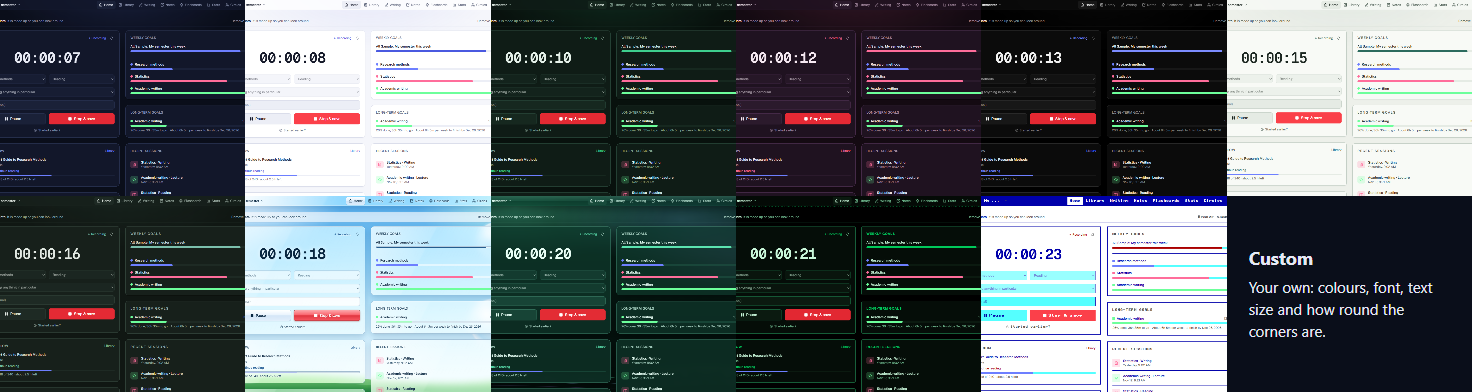
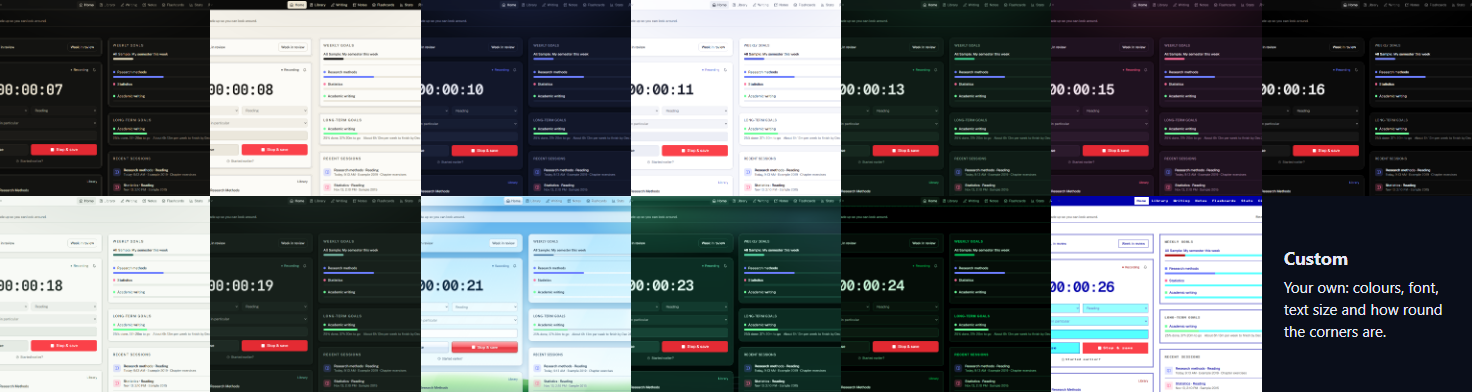
Update the site

diff --git a/docs/manual.html b/docs/manual.html
@@ -23,7 +23,7 @@
   </header>
 
   <h1>The full user manual</h1>
-  <p class="lead">Everything Voynich does, part by part. New here? Start with <a href="guide.html">Getting started in ten minutes</a>. This manual describes version 0.90.0; later versions may add things, and Settings, About and updates lists what changed.</p>
+  <p class="lead">Everything Voynich does, part by part. New here? Start with <a href="guide.html">Getting started in ten minutes</a>. This manual describes version 0.91.0; later versions may add things, and Settings, About and updates lists what changed.</p>
 
   <div class="layout">
     <nav class="toc" aria-label="Contents">
@@ -106,6 +106,7 @@
         <p>After that it opens like any app, and updates from inside Voynich do not ask again. On a Mac, Voynich is in the Dock while its window is open, and its icon (an outline with a v) is in the menu bar at the top right; <strong>click</strong> it to open Voynich, <strong>Control-click</strong> it for its menu. Your data is in <code>~/Library/Application Support/Tracker/data</code> and the log in <code>~/Library/Application Support/Tracker/logs/tracker.log</code>. To remove it, quit it and drag Voynich to the Trash; the data folder stays until you delete it.</p>
         <h3>Starting</h3>
         <p>Start Voynich from the Start menu or the Desktop shortcut (on a Mac, from the Applications folder). On Windows it opens in <strong>its own window</strong>, like any program, whose title bar is Voynich&rsquo;s own top bar (drag the window by its empty space, double-click it to fill the screen; minimize, maximize and close are at its right end), and puts a small icon near the clock (if you cannot see it, click the little arrow next to the clock). <strong>Closing the window hides it</strong>: Voynich keeps running, so a call, your circles and their notices go on (the first time, a notice says so). <strong>Click the icon</strong> to open the window again; <strong>right-click</strong> it for <em>Open Voynich</em>, <em>Show the log folder</em> and <em>Quit Voynich</em>. Starting Voynich a second time just shows the window. In the window, <kbd>F11</kbd> is full screen, <kbd>Ctrl</kbd> and <kbd>+</kbd> or <kbd>-</kbd> make everything bigger or smaller (<kbd>Ctrl</kbd>+<kbd>0</kbd> as it was), its size and place are kept, and links to websites open in your browser.</p>
+        <p id="loading-screen"><strong>The loading screen.</strong> While Voynich starts (from 0.91), a small picture of its icon shows, the letter on it growing from its middle out along its strokes. When Voynich is ready the letter shines once and the window opens; if Voynich takes longer, the letter breathes until it is. It shows on Windows and the Mac, not when Voynich starts with the computer; with <em>reduce motion</em> on in your computer&rsquo;s settings, the letter is there whole, without growing or shining.</p>
         <p id="mac-window"><strong>On a Mac</strong> it opens in its own window too, with the Mac&rsquo;s three buttons at the left end of Voynich&rsquo;s top bar. The <strong>red button hides the window</strong> and Voynich keeps running, so a call and your circles go on; click <strong>Voynich in the Dock</strong>, or its menu bar icon, to see it again. <kbd>Cmd</kbd>+<kbd>Q</kbd> quits Voynich. The menus are the usual ones (Voynich, Edit, View, Window): <kbd>Cmd</kbd> and <kbd>+</kbd> or <kbd>-</kbd> zoom (<kbd>Cmd</kbd>+<kbd>0</kbd> as it was), <kbd>Ctrl</kbd>+<kbd>Cmd</kbd>+<kbd>F</kbd> is full screen. The window is a download of its own (about 115 MB), checked like an update and kept beside your data: the disk image carries it, and an update that brings a new window shows Voynich in your browser for a minute or two while it downloads. The first time something uses the microphone, the camera or the screen, macOS asks whether Voynich may; it does not ask again after an update that keeps the same window. On macOS 11 Voynich opens in your browser instead.</p>
         <p id="window-settings">The window starts with its own copy of the settings kept <em>in this browser only</em> (the theme, the text size, the reader&rsquo;s pages): if you used Voynich in a browser before 0.80, choose those again once. Settings kept <em>in every browser you use</em> are there as before. Voynich can still be opened in a browser at its address, <code>http://localhost:3417</code> (or a nearby number if that one is busy). It works only on your computer: no other device on your network can open it, unless you turn on <em>Use Voynich from your phone</em> and pair a phone (see <a href="#phone">Your phone</a>). Nor can another account on the same computer: since 0.83 Voynich answers only what brings its key, a file only your account can read. Its window and the browser it opens bring it by themselves, and a bookmark keeps working in that browser. One thing to know: a browser sends the key&rsquo;s cookie to every program on your computer&rsquo;s own address (<code>localhost</code>), whatever its port. On a computer that other people also sign in to, use Voynich&rsquo;s own window, which keeps its cookies to itself.</p>
         <p id="start-with-windows"><strong>Starting with Windows.</strong> The installer asks whether Voynich should start when you sign in to Windows (the box is ticked; an update never turns it on). It then starts in the tray, with no window, so your circles and reminders are ready; click the icon to open it. Turn it on or off in Settings, <em>General</em>, <em>This computer</em>, <em>Start Voynich when you sign in to Windows</em>, or in Windows&rsquo; own Settings, Apps, Startup.</p>
@@ -730,15 +731,16 @@
         </ul>
 
         <h2 id="look">17. Themes and looks</h2>
-        <p>Settings, <em>Look</em>, <em>Theme</em> offers eleven themes, plus <strong>Custom</strong>:</p>
+        <p>Settings, <em>Look</em>, <em>Theme</em> offers thirteen themes, plus <strong>Custom</strong>:</p>
         <ul>
-          <li><strong>Midnight</strong> (the default dark one), <strong>Black</strong>, <strong>Light</strong>, <strong>Forest</strong> and <strong>Rose</strong>.</li>
+          <li id="voynich-theme"><strong>Voynich</strong> (the look of a new Voynich, from 0.91), made from its icon: ink black, letters the colour of bone, and the icon&rsquo;s double frame, a thin line just inside the edge of cards, panels, menus and dialogs; titles in IM Fell English, as in Folio. <strong>Voynich Light</strong> is its twin: a light page whose top and bottom bars, and main buttons, are the icon&rsquo;s black tablet. <strong>Voynich, as the system</strong> is one or the other with your computer&rsquo;s light or dark. A Voynich used before 0.91 keeps what it showed (Midnight, where no theme was chosen) until you choose another.</li>
+          <li><strong>Midnight</strong> (the default dark one before 0.91), <strong>Black</strong>, <strong>Light</strong>, <strong>Forest</strong> and <strong>Rose</strong>.</li>
           <li><strong>Folio</strong> and <strong>Folio Night</strong>: paper and green ink, light and dark, with titles in a book face (IM Fell English), text in Public Sans and numbers in JetBrains Mono. The three fonts come with Voynich, so they work offline.</li>
           <li><strong>Aero Sky</strong> (called Frutiger Aero before 0.57): bright sky, glass panels, bubbles at the window&rsquo;s edges and green hills. <strong>Aero Aurora</strong>: its dark sister, green glass under the northern lights, with glossy bars. With thanks to the Frutiger Aero community for keeping the style alive; the look is drawn in Voynich&rsquo;s own styles.</li>
           <li><strong>CCRU</strong>: black and phosphor green, after the cover of <em>Ccru Writings 1997&ndash;2003</em>, with the Numogram in the left margin of the page (it steps back in a narrow window, and does not show on a phone). The drawing is by Liza Desyatkova, Hijinx World, in the public domain (CC0).</li>
           <li><strong>TempleOS</strong>: a white page, blue text, double lines and the 16 colours of TempleOS, with its square 8 by 8 letters (taken from TempleOS itself, which is in the public domain) in the bars, tabs, buttons and titles. Notes, books and documents keep plain letters; <em>Customize</em>, <em>Font</em>, <em>TempleOS square, everywhere</em> puts them on all the text.</li>
         </ul>
-        <figure class="shot"><a class="zoom" href="img/themes.png"><img src="img/themes.png" width="1472" height="392" alt="The same page in eleven themes: midnight, light, forest, rose, black, Folio, Folio Night, Aero Sky, Aero Aurora, CCRU and TempleOS." loading="lazy"></a><figcaption>The same page in the eleven themes.</figcaption></figure>
+        <figure class="shot"><a class="zoom" href="img/themes.png"><img src="img/themes.png" width="1472" height="392" alt="The same page in thirteen themes: Voynich, Voynich Light, midnight, light, forest, rose, black, Folio, Folio Night, Aero Sky, Aero Aurora, CCRU and TempleOS." loading="lazy"></a><figcaption>The same page in the thirteen themes.</figcaption></figure>
         <figure class="shot"><a class="zoom" href="img/settings-theme.png"><img src="img/settings-theme.png" width="1280" height="960" alt="Settings, Look: the text size, the themes and Custom, and the Customize panel open, showing colour pickers." loading="lazy"></a><figcaption>Choosing and customising a theme.</figcaption></figure>
         <ul>
           <li><strong>Text size</strong> (above the themes): <em>Small</em>, <em>Normal</em> or <em>Large</em> for the whole app, in every theme. It is kept in this browser only, so a phone can have its own.</li>
@@ -796,9 +798,9 @@
           <li>Settings, About and updates also has a link to this manual, to the <a href="terms.html">terms of use</a>, the contact address and the GitHub issues page. They are links you click; Voynich sends nothing by itself.</li>
           <li><strong>Send feedback</strong> (in About, and on the page Voynich shows when something breaks) is for telling the maker about a problem or an idea, in English or Turkish. Write what happened; under it you see everything that goes with it: the version, the computer&rsquo;s system and, unless you untick it, the last lines of the log, with your home folder written as <code>~</code>. Read it first: the log can hold words of something you were saving. <em>Open in my email</em> starts a new email in your own email program, which you send yourself; <em>Copy</em> puts it all on the clipboard, for any email. If it is too long for an email link, the email starts with the first part and Voynich says to paste the whole text from Copy.</li>
           <li><strong>Check now</strong> asks whether a newer version exists. It is the only thing that contacts anyone unless you turn the next option on.</li>
-          <li><strong>Check for updates once a day</strong> (off by default) does the same by itself, once a day.</li>
+          <li><strong>Check for updates once a day</strong> (on unless you turn it off, from 0.91) does the same by itself, once a day.</li>
           <li>When a newer version exists, <strong>Update now</strong> downloads it from GitHub (about 45 MB), checks that it is the file signed for Voynich, saves a copy of your data, closes Voynich, installs it and opens Voynich again; the page reloads by itself. Your data stays as it is. One press does all of it: the progress shows while it downloads.</li>
-          <li><strong>Install updates by itself</strong> (off by default) downloads a newer version in the background and installs it the next time Voynich starts. It also turns on the daily check. The About page shows the download as it goes and then <strong>Install now</strong>, to install it at once instead; <em>Update now</em> pressed while it downloads installs it as soon as it is ready.</li>
+          <li><strong>Install updates by itself</strong> (on unless you turn it off, from 0.91; one you turned off stays off) downloads a newer version in the background and installs it the next time Voynich starts. It also turns on the daily check. The About page shows the download as it goes and then <strong>Install now</strong>, to install it at once instead; <em>Update now</em> pressed while it downloads installs it as soon as it is ready.</li>
           <li>Only an update signed with Voynich&rsquo;s own key is ever installed automatically, and the program that runs the installer checks that signature (and the file&rsquo;s checksum) again before it runs anything. An announcement that is not signed gets no download link, only a warning: every real release is signed, so an unsigned one is what someone who took over the releases repository would publish.</li>
           <li>You can always update by hand: download the newest <a href="https://github.com/cliteka-cell/voynich-releases/releases/latest/download/Voynich-Setup.exe">Voynich-Setup.exe</a> and run it. It closes Voynich, installs over it and keeps your data. On a Mac: quit Voynich and drag the Voynich from the newest <a href="https://github.com/cliteka-cell/voynich-releases/releases/latest/download/Tracker-Mac.dmg">Tracker-Mac.dmg</a> onto the Applications folder. (On a Mac, Update now works only when Voynich is in a folder you can change, such as Applications.) (Versions before 0.3.0 cannot update themselves; install 0.3.0 or later by hand once.)</li>
           <li>Each release lists a SHA-256 checksum. In PowerShell, <code>Get-FileHash .\Voynich-Setup.exe</code> should show the same number; on a Mac, <code>shasum -a 256 Tracker-Mac.dmg</code> in Terminal.</li>

diff --git a/docs/index.html b/docs/index.html
@@ -160,7 +160,7 @@ section > h2 { font-size: clamp(30px, 4.4vw, 40px); margin: 0 0 8px; padding-top
       <h2 id="look-title">A closer look</h2>
       <p class="section-lead">Click any picture to see it larger. All of them show made-up sample data, and the <a href="manual.html">full manual</a> has more.</p>
       <div class="gallery single">
-        <figure class="shot wide"><a class="zoom" href="img/themes.png"><img loading="lazy" src="img/themes.png" width="1472" height="392" alt="The same dashboard with a running timer in eleven themes side by side: midnight, light, forest, rose, black, Folio, Folio Night, Aero Sky, Aero Aurora, CCRU and TempleOS."></a><figcaption>Eleven themes, and you can make your own: colours, font, text size and how round the corners are.</figcaption></figure>
+        <figure class="shot wide"><a class="zoom" href="img/themes.png"><img loading="lazy" src="img/themes.png" width="1472" height="392" alt="The same dashboard with a running timer in thirteen themes side by side: Voynich, Voynich Light, midnight, light, forest, rose, black, Folio, Folio Night, Aero Sky, Aero Aurora, CCRU and TempleOS."></a><figcaption>Thirteen themes, and you can make your own: colours, font, text size and how round the corners are.</figcaption></figure>
       </div>
       <div class="gallery" data-coverflow aria-label="Screenshots of Voynich" style="margin-top:36px">
         <figure class="shot"><a class="zoom" href="img/welcome.png"><img loading="lazy" src="img/welcome.png" width="1280" height="940" alt="The Voynich welcome page: four starting points (a language, my studies, research or a thesis, something else) and a button to try it with sample data."></a><figcaption>Start with a language, your studies, research or something else, or look around with sample data first.</figcaption></figure>
